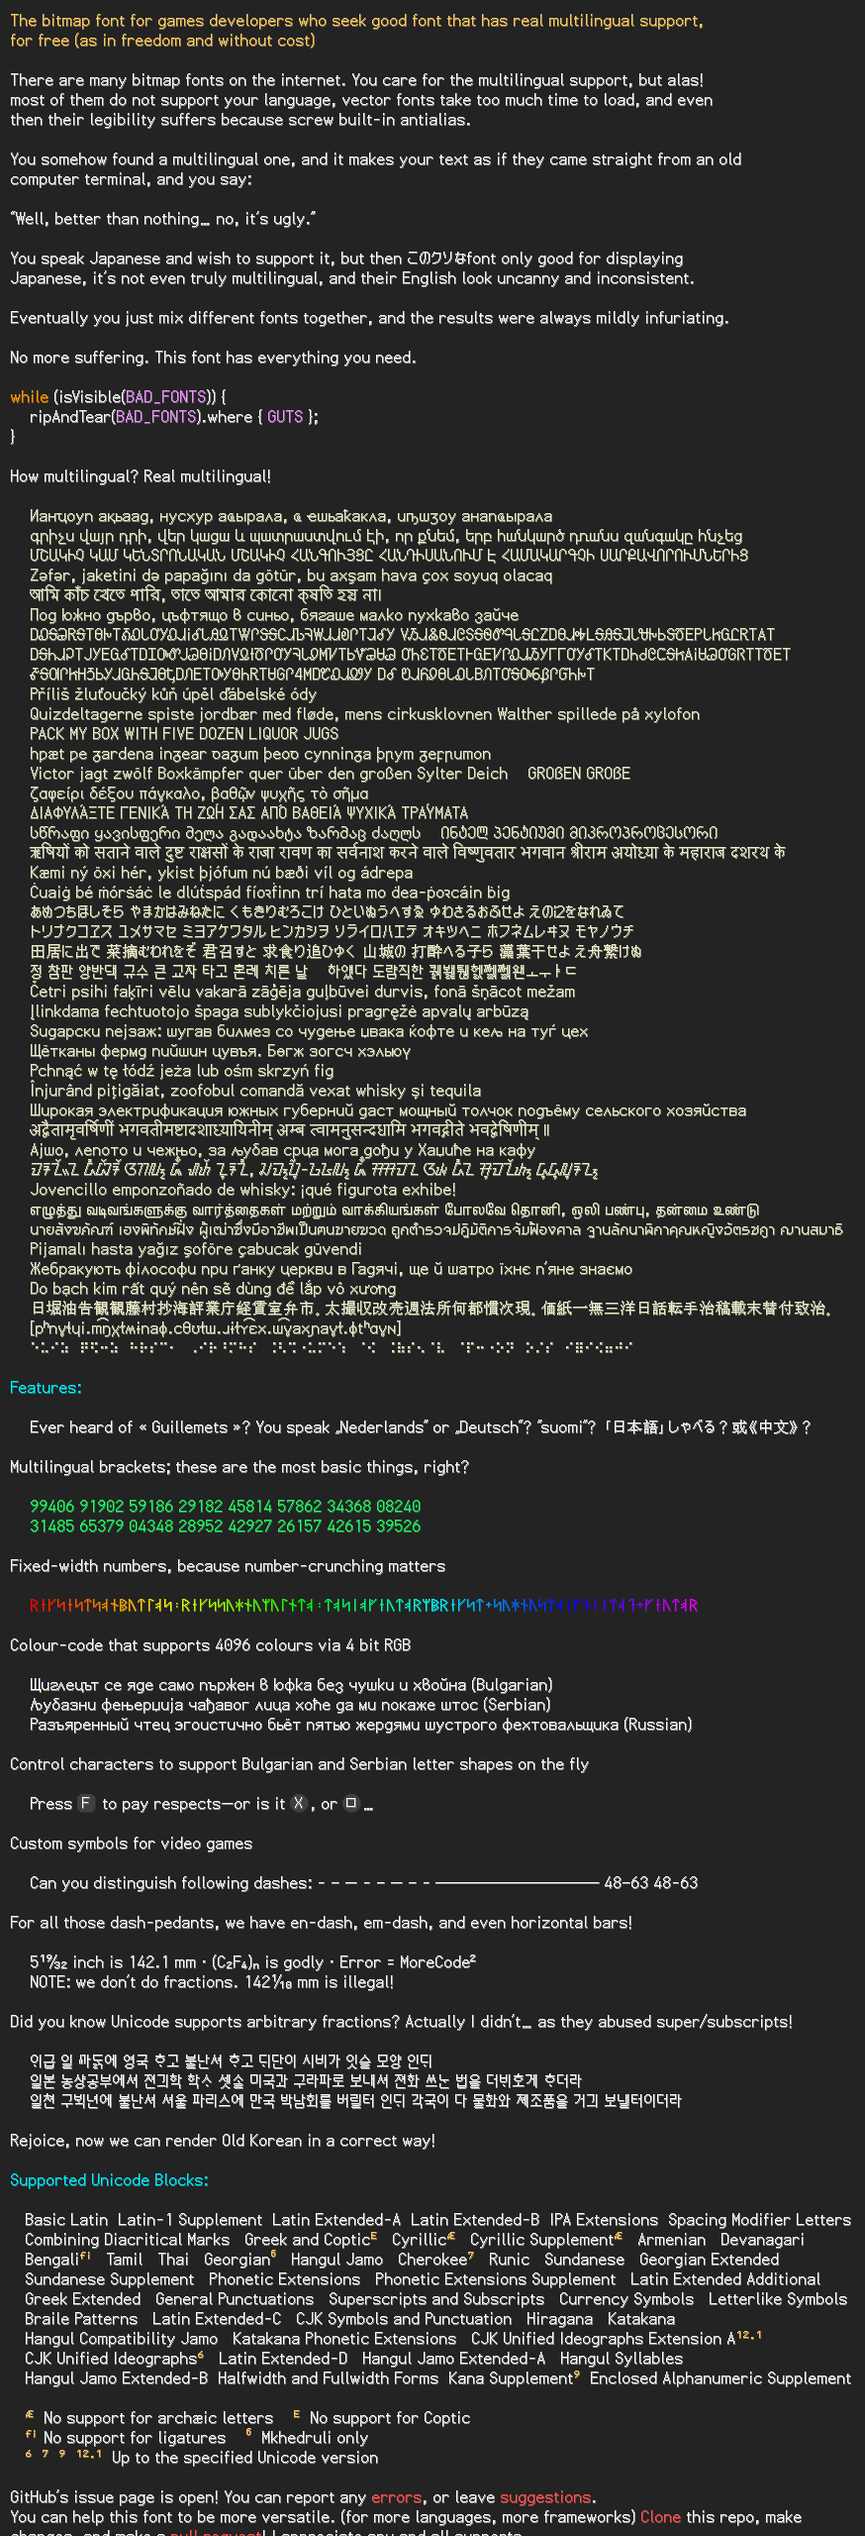
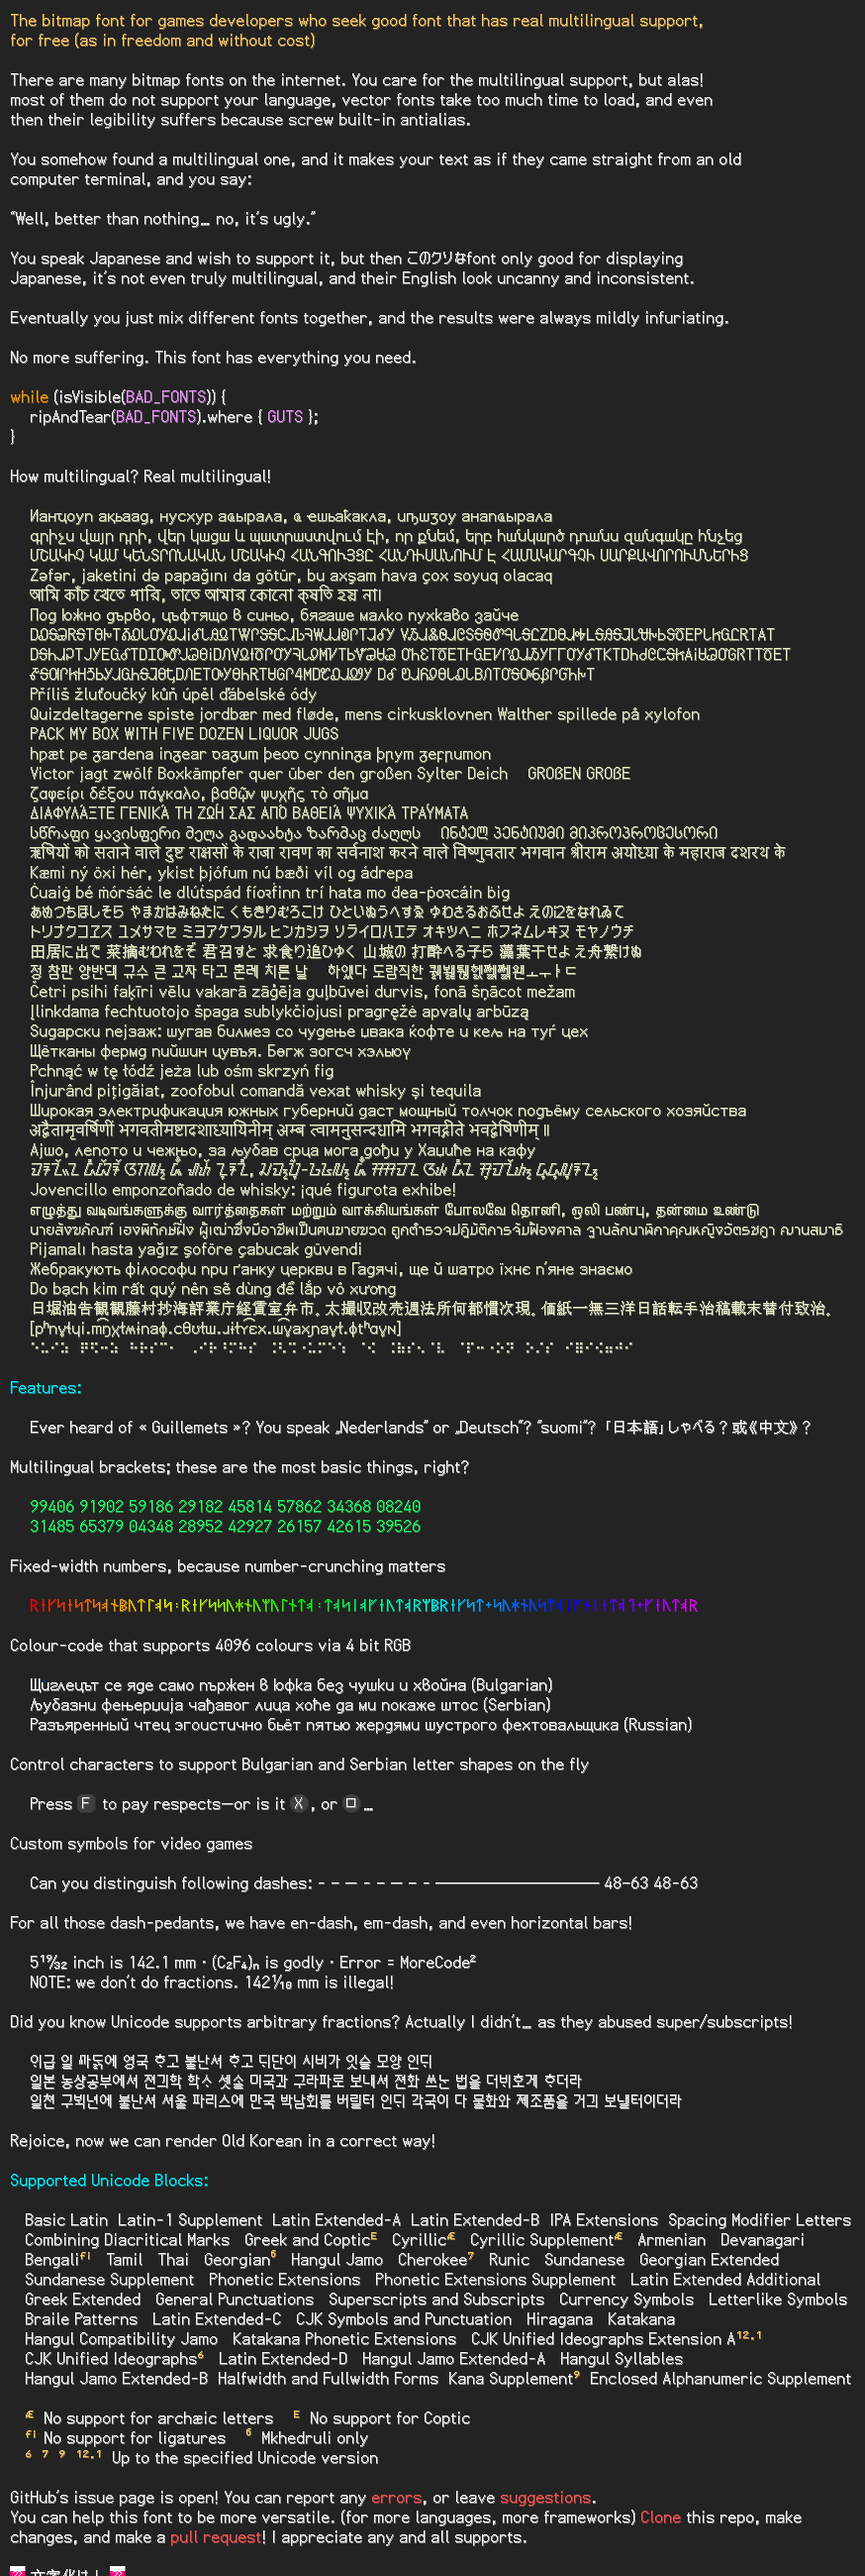
variable length for devanagari i/ii

Changed region(s): [[0.0, 0.0, 0.9886, 1.0], [0.8032, 0.4062, 0.865, 0.4375], [0.8959, 0.9688, 0.9268, 1.0]]

diff --git a/src/net/torvald/terrarumsansbitmap/gdx/TerrarumSansBitmap.kt b/src/net/torvald/terrarumsansbitmap/gdx/TerrarumSansBitmap.kt
@@ -1370,6 +1370,52 @@ class TerrarumSansBitmap(
 
 //        println(seq4.joinToString(" "))
 
+        // replace devanagari I/II with variants
+        i = 0
+        var lenacc = 0
+        while (i < seq4.size) {
+            val cPrev = seq4.getOrElse(i - 1) { -1 }
+            val c = seq4[i]
+
+            if (c == DEVANAGARI_I) {
+                var j = 1
+                var w = 0
+                while (true) {
+                    val cj = seq4.getOrElse(i + j) { -1 }
+                    if (j > 3 || cj !in 0xF0140..0xF04FF)
+                        break
+
+                    if (cj in devanagariPresentationConsonants || cj in devanagariPresentationConsonantsWithRa) {
+                        w += glyphProps[cj]?.diacriticsAnchors?.get(0)?.x ?: 0
+                        break
+                    }
+                    else if (cj in devanagariPresentationConsonantsHalf || cj in devanagariPresentationConsonantsWithRaHalf) {
+                        w += glyphProps[cj]?.width ?: 0
+                        j += 1
+                    }
+                    else
+                        break
+                }
+
+//                println("length: $w, consonant count: $j")
+
+                seq4[i] = (w+2).coerceIn(6,11) - 6 + 0xF0110
+
+                if (j > 1) i += j
+            }
+            else if (c == DEVANAGARI_II &&
+                    (cPrev in devanagariPresentationConsonants || cPrev in devanagariPresentationConsonantsWithRa)) {
+                val w = ((glyphProps[cPrev]?.width ?: 0) - (glyphProps[cPrev]?.diacriticsAnchors?.get(0)?.x ?: 0))
+
+//                println("length: $w")
+
+                seq4[i] = 0xF0125 - ((w+1).coerceIn(4,9) - 4)
+            }
+
+
+            i++
+        }
+
         return seq4
     }
 
@@ -2071,6 +2117,8 @@ class TerrarumSansBitmap(
         private val DEVANAGARI_HA = 0x939.toDevaInternal()
         private val DEVANAGARI_U = 0x941
         private val DEVANAGARI_UU = 0x942
+        private val DEVANAGARI_I = 0x093F
+        private val DEVANAGARI_II = 0x0940
         private val DEVANAGARI_RYA = 0xF0106
         private val DEVANAGARI_HALF_RYA = 0xF0107
 
@@ -2087,6 +2135,7 @@ class TerrarumSansBitmap(
         private val DEVANAGARI_EYELASH_RA = 0xF010B
         private val DEVANAGARI_RA_SUPER = 0xF010C
         private val DEVANAGARI_RA_SUPER_COMPLEX = 0xF010D
+
 
         private val MARWARI_DD = 0x978
 

diff --git a/CONTRIBUTING.md b/CONTRIBUTING.md
@@ -149,6 +149,10 @@ This tag can be used as a general "replace this with these" directive, as long a
 
 Also note that the font compiler will not "stack" these diacritics.
 
+#### The Keming Machine Tags
+
+Keming Machine Tags define the rough shape of the glyph. Please read `keming_machine.txt` for further information.
+
 
 #### NOTES
 - If glyphs are right or centre aligned, they must be aligned in the same way inside of the bitmap; the font compiler assumes every variable-width glyphs to have a width of 15, regardless of the tagged width.
